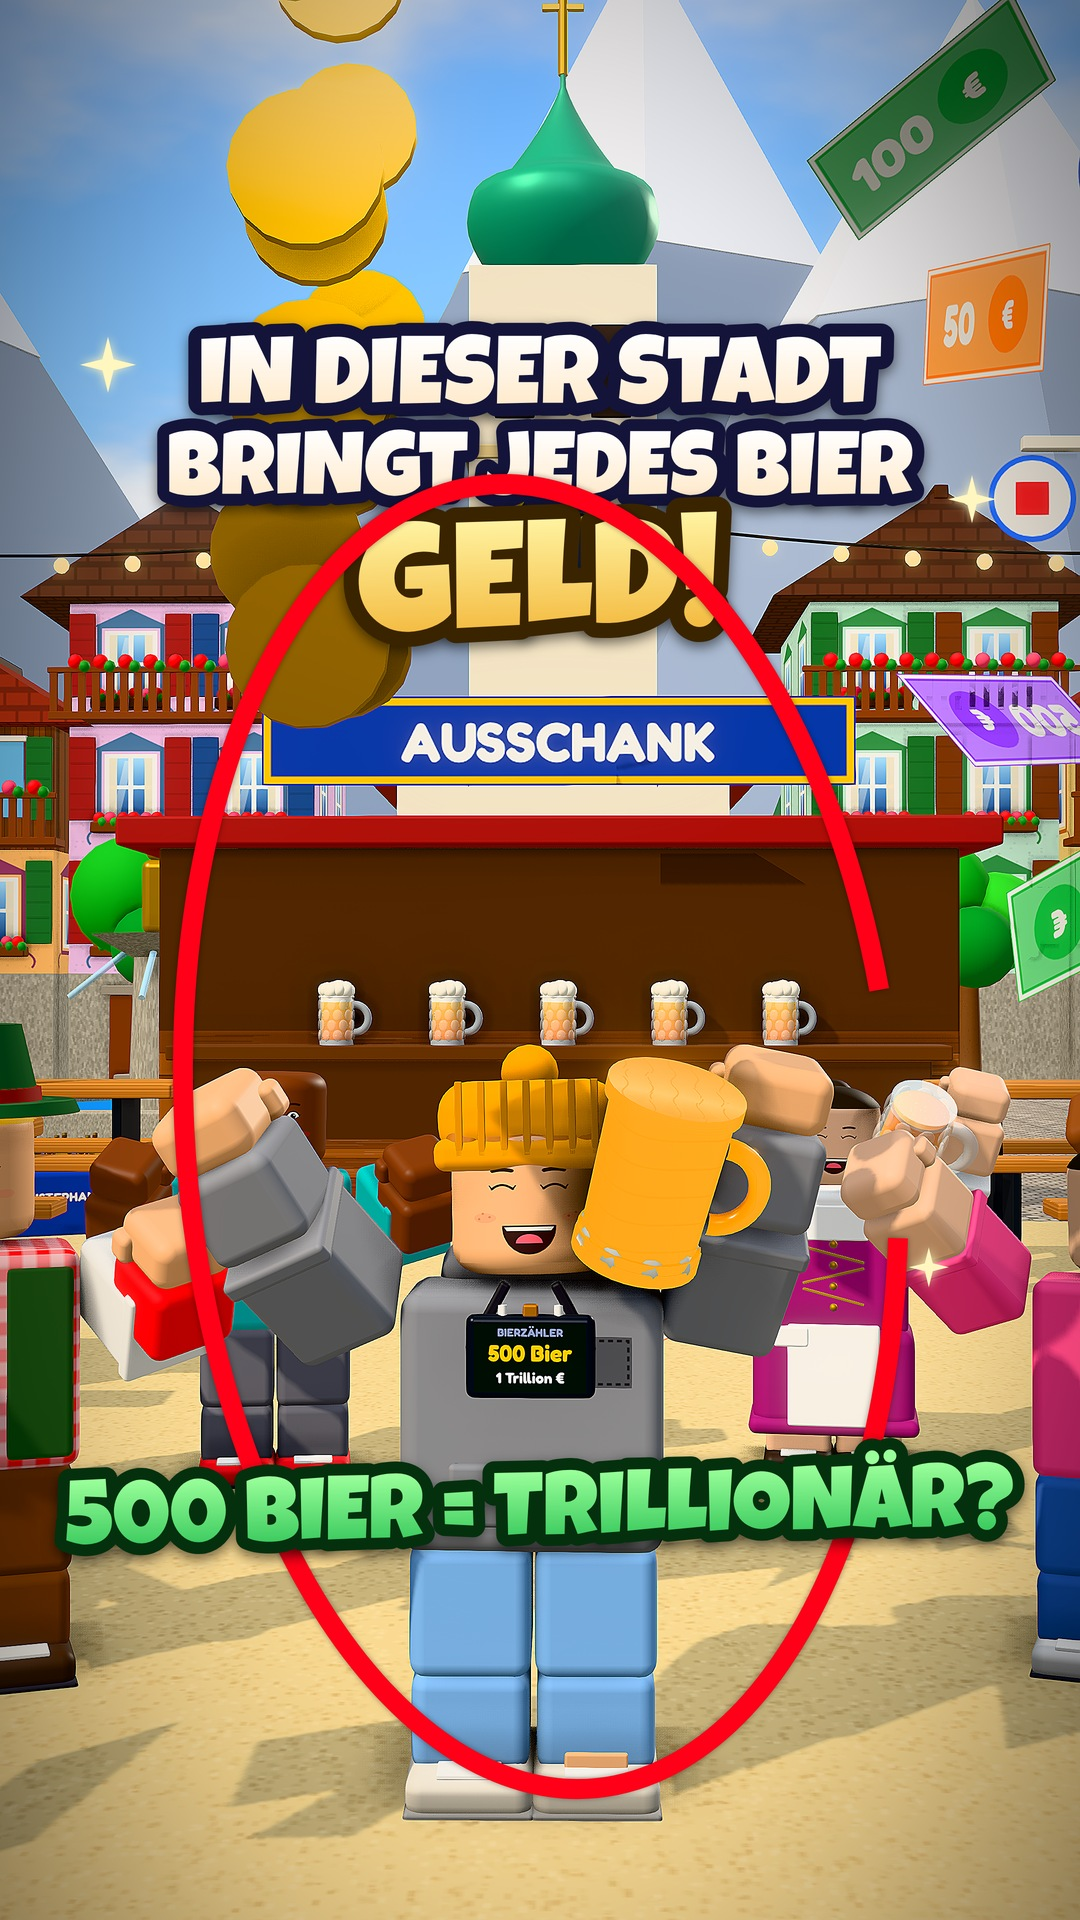
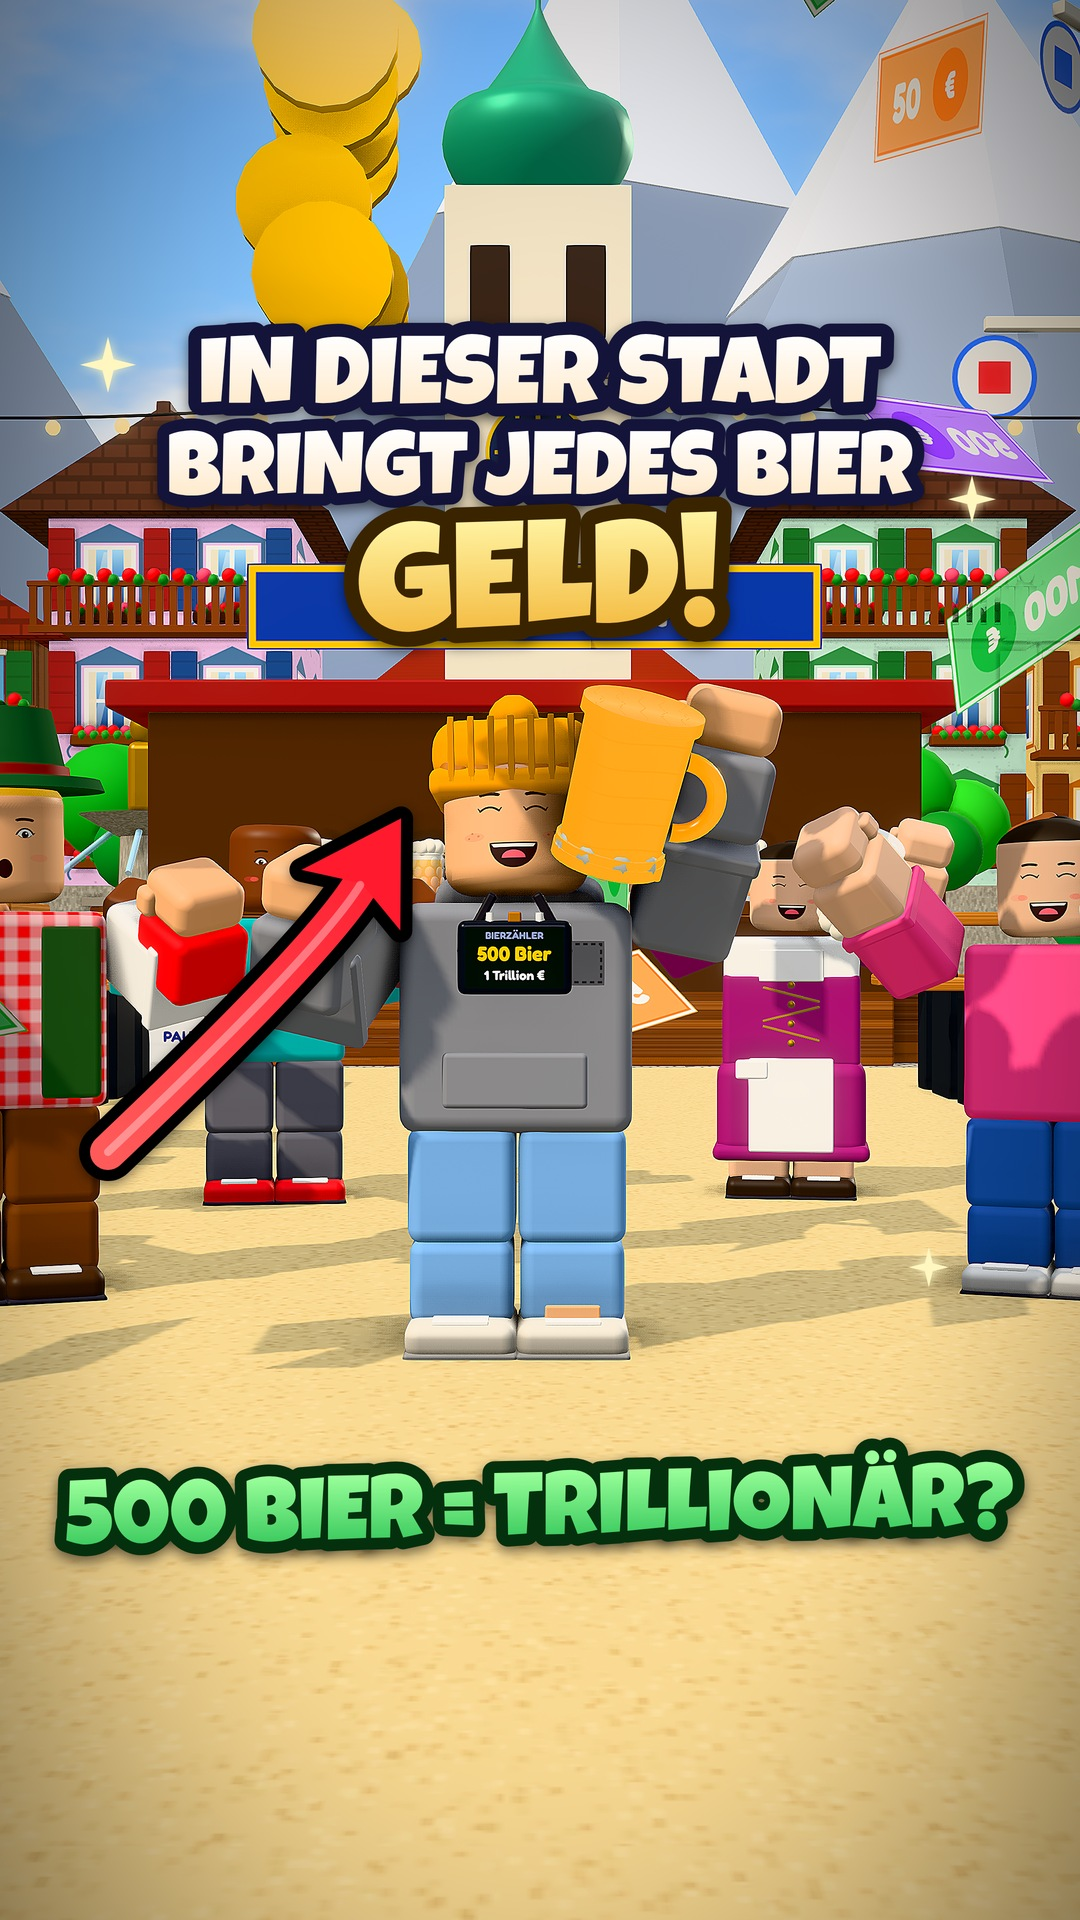
schluck: portada 1 centrada, con flecha con borde negro en vez de círculo
Claude-Session: https://claude.ai/code/session_017B1yBqKSkeSD7rg7vzgKAd

diff --git a/pieces/schluck/src/index.js b/pieces/schluck/src/index.js
@@ -874,20 +874,26 @@ function finishCover() { grade.uniforms.sharp.value = 1.55; grade.uniforms.vig.v
 function ringMark(x, y, rx, ry, col = '#ff2a4a') { const c = octx; c.save(); c.lineWidth = 20; c.strokeStyle = col; c.shadowColor = 'rgba(0,0,0,.4)'; c.shadowBlur = 12; c.beginPath(); c.ellipse(x, y, rx, ry, -.08, .2, 6.1); c.stroke(); c.restore(); }
 function arrowTo(x0, y0, x1, y1, col = '#ff2a4a') { const c = octx, a = Math.atan2(y1 - y0, x1 - x0); c.save(); c.lineWidth = 18; c.lineCap = 'round'; c.strokeStyle = col; c.fillStyle = col; c.shadowColor = 'rgba(0,0,0,.4)'; c.shadowBlur = 12;
   c.beginPath(); c.moveTo(x0, y0); c.quadraticCurveTo((x0 + x1) / 2 + 60, (y0 + y1) / 2 - 40, x1, y1); c.stroke(); c.translate(x1, y1); c.rotate(a + .3); c.beginPath(); c.moveTo(14, 0); c.lineTo(-40, -30); c.lineTo(-40, 30); c.closePath(); c.fill(); c.restore(); }
+function bigArrow(x0, y0, x1, y1, bend = 80, col = '#ff1a2e') { const c = octx, mx = (x0 + x1) / 2 + bend, my = (y0 + y1) / 2 - bend * .6, a = Math.atan2(y1 - my, x1 - mx);
+  const head = (lw, fill, stroke) => { c.save(); c.translate(x1, y1); c.rotate(a); c.beginPath(); c.moveTo(18, 0); c.lineTo(-78, -58); c.lineTo(-58, 0); c.lineTo(-78, 58); c.closePath(); c.lineJoin = 'round'; if (stroke) { c.lineWidth = lw; c.strokeStyle = stroke; c.stroke(); } if (fill) { c.fillStyle = fill; c.fill(); } c.restore(); };
+  const ex = x1 - Math.cos(a) * 60, ey = y1 - Math.sin(a) * 60; c.save(); c.lineCap = 'round'; c.shadowColor = 'rgba(0,0,0,.45)'; c.shadowBlur = 22; c.shadowOffsetY = 8;
+  c.beginPath(); c.moveTo(x0, y0); c.quadraticCurveTo(mx, my, ex, ey); c.lineWidth = 58; c.strokeStyle = '#000'; c.stroke(); head(24, null, '#000'); c.shadowColor = 'transparent';
+  c.beginPath(); c.moveTo(x0, y0); c.quadraticCurveTo(mx, my, ex, ey); c.lineWidth = 36; const g = c.createLinearGradient(x0, y0, x1, y1); g.addColorStop(0, '#ff5a5a'); g.addColorStop(1, col); c.strokeStyle = g; c.stroke(); head(0, col, null);
+  c.beginPath(); c.moveTo(x0, y0); c.quadraticCurveTo(mx, my, ex, ey); c.lineWidth = 8; c.strokeStyle = 'rgba(255,255,255,.35)'; c.stroke(); c.restore(); }
 function sparkle(x, y, r, col = '#fff6c0') { const c = octx; c.save(); c.translate(x, y); c.fillStyle = col; c.shadowColor = col; c.shadowBlur = 20; c.beginPath(); for (let i = 0; i < 8; i++) { const a = i * Math.PI / 4, rr = i % 2 ? r * .28 : r; c.lineTo(Math.cos(a) * rr, Math.sin(a) * rr); } c.closePath(); c.fill(); c.restore(); }
 // 1: el Biergarten de Brauheim: Felix en el centro con el goldener Krug en alto y su Bierzähler en «500 Bier»; lluvia de billetes y monedas; vecinos brindando alrededor.
 // 2: dentro del Bierzelt: Frau Huber de pie en el banco bebiendo su Maß; todos brindan y caen billetes; «1 BIER = 20 €».
 window.renderCover = async v => { await document.fonts.load('80px Lucky'); await document.fonts.load('80px Lilita'); out.width = 2 * W; out.height = 2 * H; octx.setTransform(2, 0, 0, 2, 0, 0); octx.imageSmoothingEnabled = true; octx.imageSmoothingQuality = 'high'; const T = 20.3, L = { T, lt: 1, k: 1, t0: 20, t1: 21 }; hideAll(); BAD_.length = 0; BIRDSON = 0; DOF = 0;
   if (v === 0) { town(L); const p = V(0, 0, 30);
-    const f = put(felix, p.x, 0, p.z, 0); prost(f, L, 1, { kind: 'gold', pose: { aLx: 2.5, aLz: .55, aLe: .3, headX: -.08 } }); GK2.userData.fill(1); GK2.userData.setGlow(.9); cara(f, T, { expr: 'joy', eyes: 'happy', mouth: 'laugh', noBlink: 1 }); meterOf(f).userData.set('500 Bier', '1 Trillion €', '#ffd23f');
+    const f = put(felix, p.x, 0, p.z, 0); prost(f, L, 1, { kind: 'gold', pose: { aLx: .9, aLz: .35, aLe: 1.9, headX: -.08 } }); GK2.userData.fill(1); GK2.userData.setGlow(.9); cara(f, T, { expr: 'joy', eyes: 'happy', mouth: 'laugh', noBlink: 1 }); meterOf(f).userData.set('500 Bier', '1 Trillion €', '#ffd23f');
     [[CR[0], -5.2, -2.5], [CR[1], 5.4, -2.8], [CR[2], -8.5, -7], [CR[3], 8.6, -7.4], [CR[5], -3.5, -10], [CR[6], 3.6, -10.5]].forEach(([c, dx, dz], i) => { const x = p.x + dx, z = p.z + dz; put(c, x, 0, z, Math.atan2(p.x - x, p.z + 6 - z) * .6); if (i % 2) prost(c, L, .9, { pose: { aLx: 2.4, aLz: .5 } }); else { actuar(c, 0, [[0, { aLx: 1.0, aLz: .4, aLe: 1.6, aRx: 1.0, aRz: .4, aRe: 1.6 }]], { T }); } cara(c, T + i, { expr: i % 2 ? 'joy' : 'gasp', noBlink: 1 }); });
-    cam([p.x + .2, 6.2, p.z + 16], [p.x, 6.4, p.z], 50); billRain(V(p.x, 0, p.z), T, 36, 22, 12, 18, 5); coins(V(p.x, 10, p.z + 2), T - .6, T, 24); clearFaces(); sh(V(p.x, 0, p.z - 3), 26); hemi.intensity = 1.15;
+    cam([p.x + .15, 3.6, p.z + 18], [p.x + .15, 3.4, p.z], 50); billRain(V(p.x, 0, p.z), T, 36, 22, 12, 18, 5); coins(V(p.x, 10, p.z + 2), T - .6, T, 24); clearFaces(); sh(V(p.x, 0, p.z - 3), 26); hemi.intensity = 1.15;
     finishCover();
     const top = proj(V(p.x, 10.2, p.z)), bot = proj(V(p.x, -.1, p.z)), sl = proj(V(p.x - 2.6, 4, p.z)), sr = proj(V(p.x + 2.6, 4, p.z));
     strokeTxt('IN DIESER STADT', W / 2, H * .2, 96, 'Lucky', ['#ffffff', '#ffe2b8'], '#14143a', 26);
     strokeTxt('BRINGT JEDES BIER', W / 2, H * .248, 90, 'Lucky', ['#ffffff', '#ffe2b8'], '#14143a', 24);
     strokeTxt('GELD!', W / 2, H * .31, 150, 'Lucky', ['#fff2a0', '#f0a820'], '#3a2400', 30, -.03);
-    ringMark((sl[0] + sr[0]) / 2, (top[1] + bot[1]) / 2, (sr[0] - sl[0]) / 2 + 20, (bot[1] - top[1]) / 2 - 10, '#ff0018');
+    const hd = proj(hp(f).add(V(-.75, .65, 0))); bigArrow(W * .1, H * .6, hd[0] - 40, hd[1] + 10, 70);
     strokeTxt('500 BIER = TRILLIONÄR?', W / 2, H * .79, 92, 'Lucky', ['#9aff9a', '#1ab84a'], '#04300e', 24, -.02);
     sparkle(W * .1, H * .19, 28); sparkle(W * .9, H * .26, 24); sparkle(W * .86, H * .66, 20);
   } else { zelt(L); const p = V(BZX, 2.6, -22.3);

diff --git a/pieces/schluck/src/p/z_cover.js b/pieces/schluck/src/p/z_cover.js
@@ -8,20 +8,26 @@ function finishCover() { grade.uniforms.sharp.value = 1.55; grade.uniforms.vig.v
 function ringMark(x, y, rx, ry, col = '#ff2a4a') { const c = octx; c.save(); c.lineWidth = 20; c.strokeStyle = col; c.shadowColor = 'rgba(0,0,0,.4)'; c.shadowBlur = 12; c.beginPath(); c.ellipse(x, y, rx, ry, -.08, .2, 6.1); c.stroke(); c.restore(); }
 function arrowTo(x0, y0, x1, y1, col = '#ff2a4a') { const c = octx, a = Math.atan2(y1 - y0, x1 - x0); c.save(); c.lineWidth = 18; c.lineCap = 'round'; c.strokeStyle = col; c.fillStyle = col; c.shadowColor = 'rgba(0,0,0,.4)'; c.shadowBlur = 12;
   c.beginPath(); c.moveTo(x0, y0); c.quadraticCurveTo((x0 + x1) / 2 + 60, (y0 + y1) / 2 - 40, x1, y1); c.stroke(); c.translate(x1, y1); c.rotate(a + .3); c.beginPath(); c.moveTo(14, 0); c.lineTo(-40, -30); c.lineTo(-40, 30); c.closePath(); c.fill(); c.restore(); }
+function bigArrow(x0, y0, x1, y1, bend = 80, col = '#ff1a2e') { const c = octx, mx = (x0 + x1) / 2 + bend, my = (y0 + y1) / 2 - bend * .6, a = Math.atan2(y1 - my, x1 - mx);
+  const head = (lw, fill, stroke) => { c.save(); c.translate(x1, y1); c.rotate(a); c.beginPath(); c.moveTo(18, 0); c.lineTo(-78, -58); c.lineTo(-58, 0); c.lineTo(-78, 58); c.closePath(); c.lineJoin = 'round'; if (stroke) { c.lineWidth = lw; c.strokeStyle = stroke; c.stroke(); } if (fill) { c.fillStyle = fill; c.fill(); } c.restore(); };
+  const ex = x1 - Math.cos(a) * 60, ey = y1 - Math.sin(a) * 60; c.save(); c.lineCap = 'round'; c.shadowColor = 'rgba(0,0,0,.45)'; c.shadowBlur = 22; c.shadowOffsetY = 8;
+  c.beginPath(); c.moveTo(x0, y0); c.quadraticCurveTo(mx, my, ex, ey); c.lineWidth = 58; c.strokeStyle = '#000'; c.stroke(); head(24, null, '#000'); c.shadowColor = 'transparent';
+  c.beginPath(); c.moveTo(x0, y0); c.quadraticCurveTo(mx, my, ex, ey); c.lineWidth = 36; const g = c.createLinearGradient(x0, y0, x1, y1); g.addColorStop(0, '#ff5a5a'); g.addColorStop(1, col); c.strokeStyle = g; c.stroke(); head(0, col, null);
+  c.beginPath(); c.moveTo(x0, y0); c.quadraticCurveTo(mx, my, ex, ey); c.lineWidth = 8; c.strokeStyle = 'rgba(255,255,255,.35)'; c.stroke(); c.restore(); }
 function sparkle(x, y, r, col = '#fff6c0') { const c = octx; c.save(); c.translate(x, y); c.fillStyle = col; c.shadowColor = col; c.shadowBlur = 20; c.beginPath(); for (let i = 0; i < 8; i++) { const a = i * Math.PI / 4, rr = i % 2 ? r * .28 : r; c.lineTo(Math.cos(a) * rr, Math.sin(a) * rr); } c.closePath(); c.fill(); c.restore(); }
 // 1: el Biergarten de Brauheim: Felix en el centro con el goldener Krug en alto y su Bierzähler en «500 Bier»; lluvia de billetes y monedas; vecinos brindando alrededor.
 // 2: dentro del Bierzelt: Frau Huber de pie en el banco bebiendo su Maß; todos brindan y caen billetes; «1 BIER = 20 €».
 window.renderCover = async v => { await document.fonts.load('80px Lucky'); await document.fonts.load('80px Lilita'); out.width = 2 * W; out.height = 2 * H; octx.setTransform(2, 0, 0, 2, 0, 0); octx.imageSmoothingEnabled = true; octx.imageSmoothingQuality = 'high'; const T = 20.3, L = { T, lt: 1, k: 1, t0: 20, t1: 21 }; hideAll(); BAD_.length = 0; BIRDSON = 0; DOF = 0;
   if (v === 0) { town(L); const p = V(0, 0, 30);
-    const f = put(felix, p.x, 0, p.z, 0); prost(f, L, 1, { kind: 'gold', pose: { aLx: 2.5, aLz: .55, aLe: .3, headX: -.08 } }); GK2.userData.fill(1); GK2.userData.setGlow(.9); cara(f, T, { expr: 'joy', eyes: 'happy', mouth: 'laugh', noBlink: 1 }); meterOf(f).userData.set('500 Bier', '1 Trillion €', '#ffd23f');
+    const f = put(felix, p.x, 0, p.z, 0); prost(f, L, 1, { kind: 'gold', pose: { aLx: .9, aLz: .35, aLe: 1.9, headX: -.08 } }); GK2.userData.fill(1); GK2.userData.setGlow(.9); cara(f, T, { expr: 'joy', eyes: 'happy', mouth: 'laugh', noBlink: 1 }); meterOf(f).userData.set('500 Bier', '1 Trillion €', '#ffd23f');
     [[CR[0], -5.2, -2.5], [CR[1], 5.4, -2.8], [CR[2], -8.5, -7], [CR[3], 8.6, -7.4], [CR[5], -3.5, -10], [CR[6], 3.6, -10.5]].forEach(([c, dx, dz], i) => { const x = p.x + dx, z = p.z + dz; put(c, x, 0, z, Math.atan2(p.x - x, p.z + 6 - z) * .6); if (i % 2) prost(c, L, .9, { pose: { aLx: 2.4, aLz: .5 } }); else { actuar(c, 0, [[0, { aLx: 1.0, aLz: .4, aLe: 1.6, aRx: 1.0, aRz: .4, aRe: 1.6 }]], { T }); } cara(c, T + i, { expr: i % 2 ? 'joy' : 'gasp', noBlink: 1 }); });
-    cam([p.x + .2, 6.2, p.z + 16], [p.x, 6.4, p.z], 50); billRain(V(p.x, 0, p.z), T, 36, 22, 12, 18, 5); coins(V(p.x, 10, p.z + 2), T - .6, T, 24); clearFaces(); sh(V(p.x, 0, p.z - 3), 26); hemi.intensity = 1.15;
+    cam([p.x + .15, 3.6, p.z + 18], [p.x + .15, 3.4, p.z], 50); billRain(V(p.x, 0, p.z), T, 36, 22, 12, 18, 5); coins(V(p.x, 10, p.z + 2), T - .6, T, 24); clearFaces(); sh(V(p.x, 0, p.z - 3), 26); hemi.intensity = 1.15;
     finishCover();
     const top = proj(V(p.x, 10.2, p.z)), bot = proj(V(p.x, -.1, p.z)), sl = proj(V(p.x - 2.6, 4, p.z)), sr = proj(V(p.x + 2.6, 4, p.z));
     strokeTxt('IN DIESER STADT', W / 2, H * .2, 96, 'Lucky', ['#ffffff', '#ffe2b8'], '#14143a', 26);
     strokeTxt('BRINGT JEDES BIER', W / 2, H * .248, 90, 'Lucky', ['#ffffff', '#ffe2b8'], '#14143a', 24);
     strokeTxt('GELD!', W / 2, H * .31, 150, 'Lucky', ['#fff2a0', '#f0a820'], '#3a2400', 30, -.03);
-    ringMark((sl[0] + sr[0]) / 2, (top[1] + bot[1]) / 2, (sr[0] - sl[0]) / 2 + 20, (bot[1] - top[1]) / 2 - 10, '#ff0018');
+    const hd = proj(hp(f).add(V(-.75, .65, 0))); bigArrow(W * .1, H * .6, hd[0] - 40, hd[1] + 10, 70);
     strokeTxt('500 BIER = TRILLIONÄR?', W / 2, H * .79, 92, 'Lucky', ['#9aff9a', '#1ab84a'], '#04300e', 24, -.02);
     sparkle(W * .1, H * .19, 28); sparkle(W * .9, H * .26, 24); sparkle(W * .86, H * .66, 20);
   } else { zelt(L); const p = V(BZX, 2.6, -22.3);
